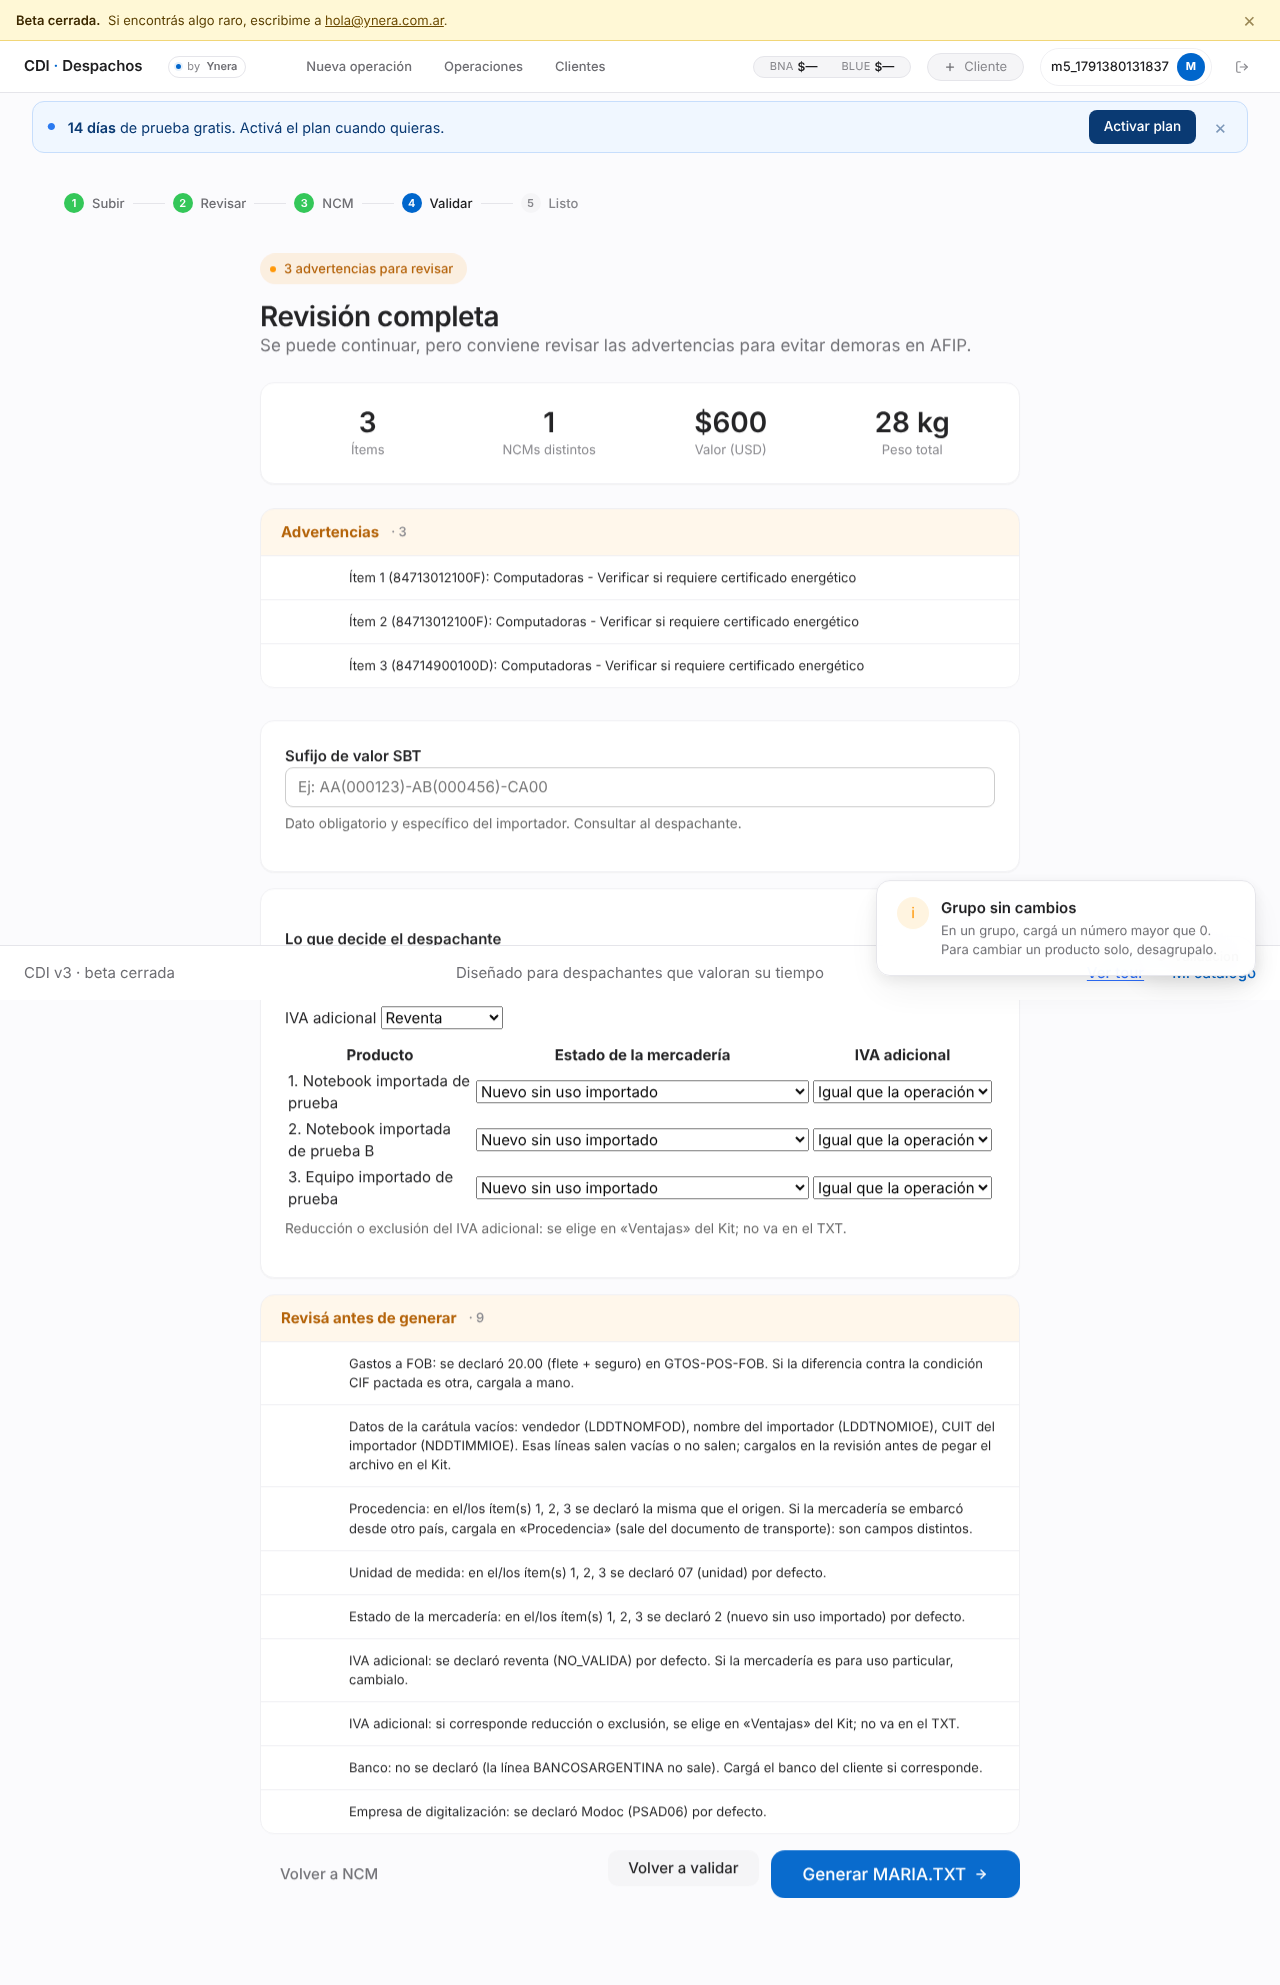
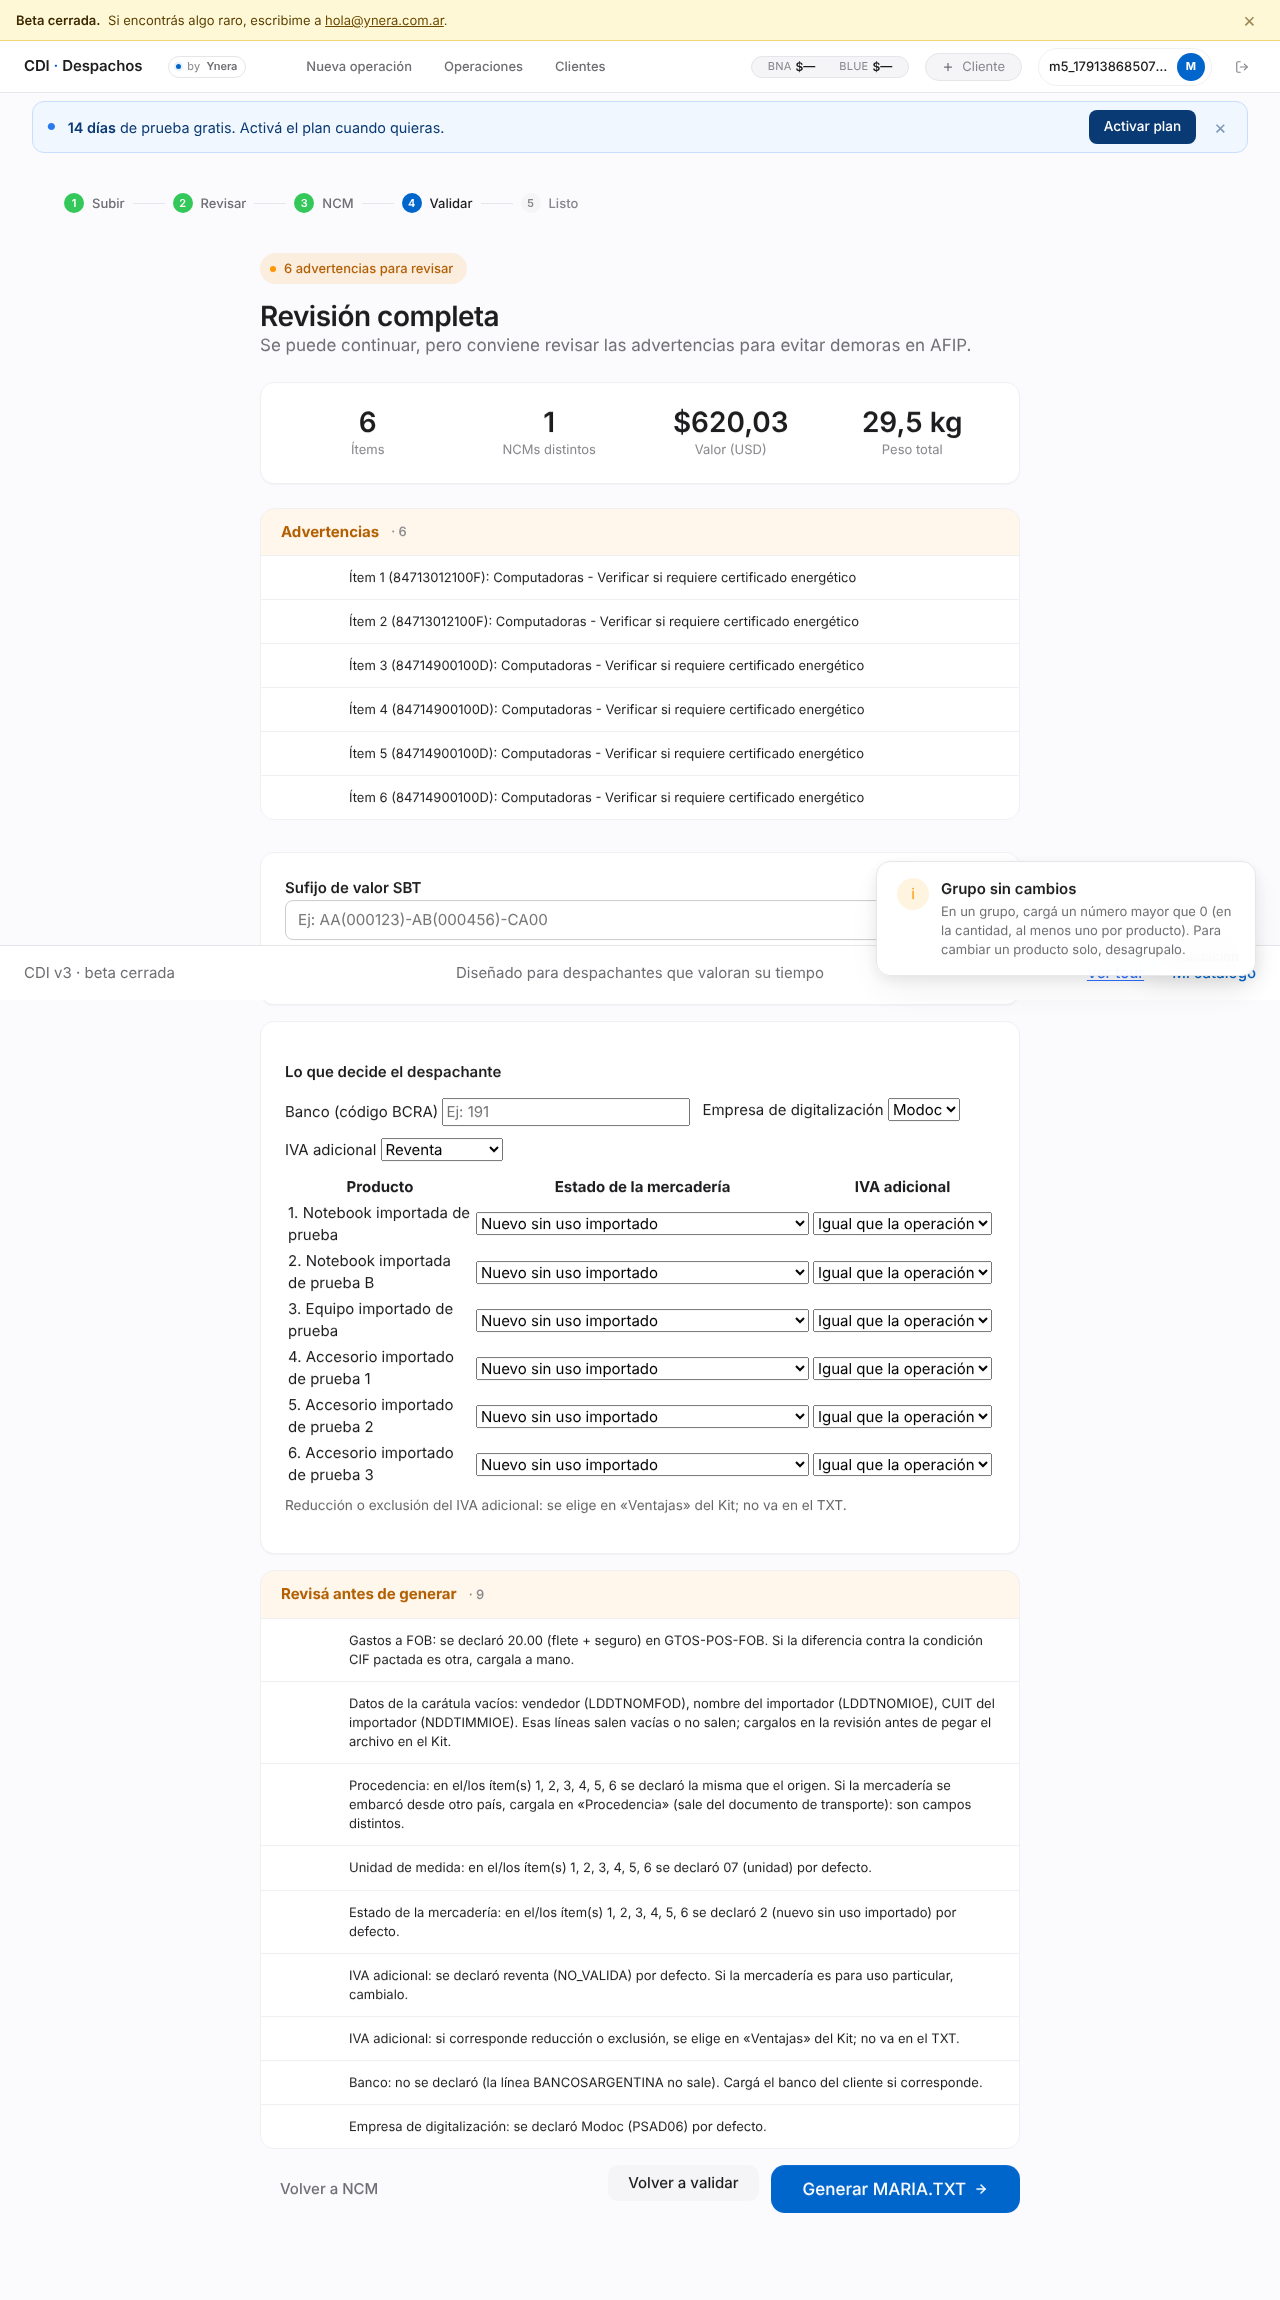
docs(pm): reentrega de MARIA-5 con la devolución (07fb085) y la D23
Claude-Session: https://claude.ai/code/session_01JssJQ6CQvEBZ7yjJp3hHQx

diff --git a/docs/pm/PARA-PM-2.md b/docs/pm/PARA-PM-2.md
@@ -2,6 +2,94 @@
 
 Este archivo es mío y vos no lo tocás. Acá te informo.
 
+## MARIA-5 — reentrega con la devolución: **`07fb085`**
+
+**Resultado: los seis puntos, con rojo antes y verde después. Para decidir:
+la D23. MARIA-5 y EXCEL-1 (Dev 1) dicen lo contrario sobre «Peso neto», y
+además chocan en `main.py` y `upload.js`.** Base: `c3f79f8`, más tu
+`453cb01` integrado. Los dos archivos reales salen idénticos: sus pruebas
+están en la suite.
+
+| # | Qué hace ahora | Rojo antes → verde |
+|---|---|---|
+| 1. Dos pesos | **Lector:** si viene el de la línea, manda: se divide por la cantidad. Si además viene el de una unidad y no da el de la línea (tolerancia: 1 % o 0,001 kg), un aviso muestra los dos números («25 kg por unidad (× 10 = 250 kg) y 25 kg la línea; se usó el de la línea»). El aviso llega a la pantalla (`avisos` de `/upload_pdf/public`, en el mismo cartel de «Revisá la factura»). (25, 25) con 10 unidades da `QARTKGRNET=25.000`. **Excel:** orden neto > total > de una unidad > bruto, aunque el mapeo guardado diga otra. El aviso nombra la columna usada y las ignoradas y, si el de una unidad × cantidad no da el de la línea, muestra los dos números. El mapeo que se aprende es el de la columna que manda | `test_maria5_devolucion.py`, secciones 1 |
+| 2. Peso en texto | En cualquier columna de peso queda vacío, con aviso; la fila se conserva. También «inf» (antes: 500) | sección 2 y revisión |
+| 3. Guarda del peso | `peso_valido` en el `[ART]`: no finito, sobre 10¹² o que redondea a 0,000 → 400 con mensaje propio. Un peso en 0 ya daba 400 por el control del Kit; ahora también el generador lo rechaza (en `test_generar_maria_txt.py`, 8 productos sin peso pasan a llevar 1 kg) | sección 3 |
+| 4. Subítems | Exacto con exacto: la suma sin redondear contra el valor del ítem sin redondear. Tu caso (7 × 2,675) genera 18,73. Lote al azar con el criterio de `8e819dd` (3 × 1500): todo lo que pasaba genera | sección 4 |
+| 5. Grupo | Una cantidad menor que la cantidad de productos se rechaza con el mismo cartel («…al menos uno por producto»). Si alcanza, el producto que queda en 0 toma una unidad del que más tiene. 1/1/100 bajado a 5 da 1/1/3 | `pantalla_maria5.js` contra `c3f79f8`: `FALLA: 1/1/1 bajado a 2 quedó […{"c":0…}]`; con la pieza, OK |
+| 6. Una sola cuenta | `fob_total_del_txt`: un grupo es una línea y se redondea una vez. La validación lo usa (la pantalla manda `grupo_id`). El aviso «Gastos a FOB» suma flete y seguro al centavo, como el TXT | sección 6; pantalla contra `c3f79f8`: `FALLA: la validación muestra $620,04 y el TXT 620.03`; con la pieza, `$620,03 = 620.03` |
+
+Las pruebas nuevas contra la base `c3f79f8` dan `43 failed, 17 passed`.
+
+**Autorrevisión (Sonnet alto).** No encontró nada grave. Corrí 8000 pedidos
+al azar contra `c3f79f8` y salieron idénticos, salvo los subítems del punto 4
+y los pesos en 0. En 4000 pedidos, la validación coincide con `MDDTFOB`.
+Arreglé lo que encontró, en `1179dfc` y `07fb085`:
+- «Peso neto unitario» y «Net weight per unit» no se reconocían. Con un bruto
+  al lado, el TXT declaraba el bruto con un aviso falso. Ahora cuenta como
+  peso cualquier columna «Peso…» o «…weight…», pero no «Pesos», la moneda.
+  Esto también resuelve el riesgo de «Peso total (kg)» que te informé.
+- Un «inf» escrito daba 500.
+- Entre dos columnas de una unidad, el resultado dependía del orden de las
+  columnas. Ahora va primero la que dice neto y después la del mapeo guardado.
+- El aviso decía «peso_unitario (ignorada)».
+- Un peso enorme daba el mensaje equivocado.
+
+**Mensaje de la Dev 1 por `sabotaje_maria3.sh`.** `flete_sin_validar` ahora
+saca también el flete de `_IMPORTES_DE_LA_CABECERA`
+(`core/controles_maria.py`), si ese archivo está. En mi rama todavía no
+está, así que no lo corrí con MARIA-1b integrada: ver la D23.
+
+| Puerta | Resultado |
+|---|---|
+| Suite completa, worktree limpio en `1179dfc`, venv **sólo con `requirements.txt`** (`07fb085` sólo cambia la columna de una prueba, que pasa) | `1259 passed, 102 skipped, 25 warnings in 77.96s`, 0 failed |
+| `sabotaje_maria5.sh 07fb085` (44) | `OK: los 44 sabotajes dan rojo por la razón esperada`. En `1179dfc`, `pesos_moneda` quedó verde: la prueba no distinguía el defecto y la corregí en `07fb085` |
+| `sabotaje_maria3` / `1d` / `4` / `1c` / `2b` / `2` / `1a` en `07fb085` | `OK: los 30` / `8` / `9` / `4` / `6` / `8` / `10` |
+| `pantalla_maria5.js` (servidor local en `07fb085`) | `OK: pantalla MARIA-5`; captura en `docs/pm/capturas/maria5-validacion.png` |
+| `smoke_friccion.sh` | `==> OK · telemetría + alias session/state + by-cuit protegido` |
+
+### D23 — «Peso neto» por unidad (EXCEL-1) o de la línea (MARIA-5)
+
+Probé `merge` de `origin/claude/dev1-tecnica` sobre `f9f80c1`, en un
+worktree aparte, y lo deshice: no subí nada. Hay conflictos en
+`proyecto_maria/main.py` (cuatro bloques: `smart_validation`, la lista de
+alias del peso, `_peso_por_unidad` contra `_mapeo_efectivo`, y
+`upload_excel_v2`) y en `static/v2/screens/upload.js` (el cartel final).
+
+Lo de fondo: EXCEL-1 pone `pesoneto` y `netweight` entre los nombres **de
+una unidad**. Además saca «Peso total» y el bruto («sin una de estas
+columnas, el peso queda vacío»). Tu regla de MARIA-5 es la contraria: neto
+> total > de una unidad > bruto, y el neto es de la línea. Con «Peso neto»
+= 25 y 10 unidades, EXCEL-1 declara 250 kg y MARIA-5 declara 25 kg.
+- **Recomiendo** la de MARIA-5, que es la que pediste y la que dice la
+  respuesta 3 del despachante. Quien integre segunda resuelve los conflictos
+  con esa regla: las dos piezas tienen pruebas que van a marcar el lado
+  equivocado. Si preferís, la resuelvo yo cuando EXCEL-1 esté en tu rama.
+
+**Riesgos y lo que no hice:**
+- La tolerancia entre los dos pesos (1 % o 0,001 kg) sólo decide si hay
+  aviso. El número que sale es siempre el de la línea.
+- «2,5» escrito como texto en el Excel no se interpreta: queda vacío con
+  aviso. No adiviné la coma decimal.
+- La v1 (`extract_items_from_excel` por `/upload_excel/`) sigue sacando una
+  fila con un peso en texto. No la toqué: no es la pantalla v2 y diverge
+  igual (`DECISIONS.md`).
+- No corrido: el Kit del despachante, Gemini real y planillas reales de
+  clientes. Nada contra producción ni terceros.
+
+Para reproducir:
+```
+PM_DIR=/tmp/cdi-pm docs/pm/herramientas/levantar.sh 07fb085 8890
+BASE_URL=http://127.0.0.1:8890 node scripts/testing/pantalla_maria5.js   # «OK: pantalla MARIA-5»
+VENV=/tmp/cdi-pm/venv scripts/testing/sabotaje_maria5.sh 07fb085          # «OK: los 44 sabotajes …»
+python -m pytest -q tests/test_maria5_*.py                                # todo passed
+```
+
+Última vuelta: 2026-10-07 15:40 UTC
+Contexto: ~9 %
+
+---
+
 ## MARIA-5 — entregada: **`6d59893`**
 
 **Resultado: terminada, con la D22 (a) y el punto 4. Para decidir: nada
